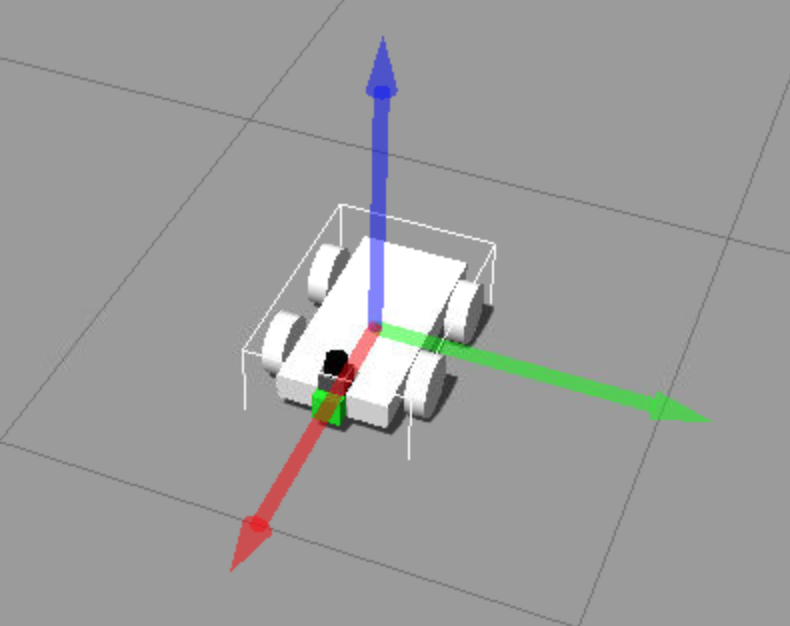
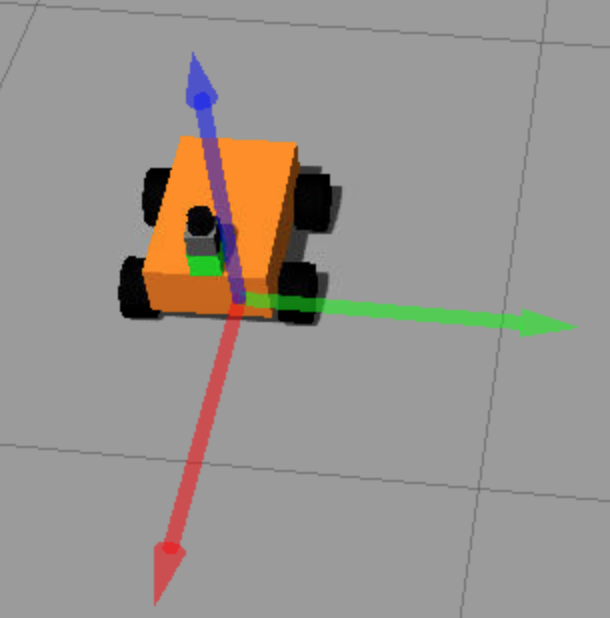
updates

diff --git a/main.tex b/main.tex
@@ -62,10 +62,6 @@ Finally, last dimension involved the number of robots involved: \begin{enumerate
 This project is focused on solving the global localization problem on a static environment, using a passive module, in a single-robot mobile platform. This has been implemented in simulation via ROS \cite{288} packages to illustrate navigation tasks (Fig. \ref{fig:map}).  
 
 
-%\IEEEPARstart{T}{he} introduction should provide some material regarding the history of the problem, why it is important and what is intended to be achieved. If there exists any previous attempts to solve this problem, this is a great place to note these while conveying the differences in your approach (if any). The intent is to provide enough information for the reader to understand why this problem is interesting and setting up the conversation for the solution you have provided
-%Use this space to introduce your robotic inference idea and how you wish to apply it. 
-%If you have any papers / sites you have referenced for your idea, please make sure to cite them.
-
 %example for inserting image
 %\begin{figure}[thpb]
 %      \centering
@@ -156,8 +152,6 @@ Global localization & no & yes\\
 
 
 
-%At this stage, you should begin diving into the technical details of your approach by explaining to the reader how parameters were defined, what type of network was chosen, and the reasons these items were performed. This should be factual and authoritative, meaning you should not use language such as “I think this will work” or “Maybe a network with this architecture is better..”. Instead, focus on items similar to, ”A 3-layer network architecture was chosen with X, Y, and Z parameters” 
-%Explain why you chose the network you did for the supplied data set and then why you chose the network used for your robotic inference project. \cite{lamport1994latex}
 %
 %%example for Bullet point list
 %
@@ -207,7 +201,7 @@ The baseline mobile robot, Udacity Bot (UB), is developed using Xacro\footnote{\
 
 \subsection{Custom Robot Model}
 
-The custom mobile robot, named Saminda Bot (SB), is a four-wheeled robot. The chassis is a box 0.4, 0.2, 0.05, while the wheels are cylinders with radius 0.055 and length 0.0375. Similar to Sec. \ref{subsec:udacity_bot}, the robot is equipped with a Hokuyo laser scanner and a camera. A Skid Steering Drive has been attached to front/back left/right wheels and configured via Gazebo. Fig. \ref{fig:saminda_bot} shows the structure of Saminda Bot, and the visual appearance is given in Fig.  \ref{fig:sb}.
+The custom mobile robot, named Saminda Bot (SB), is a four-wheeled robot. The chassis is a box 0.2, 0.3, 0.1, while the wheels are cylinders with radius 0.05 and length 0.05. Similar to Sec. \ref{subsec:udacity_bot}, the robot is equipped with a Hokuyo laser scanner and a camera. The moment of inertia for each object shape has been calculated explicitly. A Skid Steering Drive has been attached to front/back left/right wheels and configured via Gazebo. Fig. \ref{fig:saminda_bot} shows the structure of Saminda Bot, and the visual appearance is given in Fig.  \ref{fig:sb}.
 
 \begin{figure}[thpb]
       \centering
@@ -225,25 +219,96 @@ The custom mobile robot, named Saminda Bot (SB), is a four-wheeled robot. The ch
 
 \subsection{ROS Packages}
 
-TODO
+The robots uses amcl package and ROS navigation stack to localize, plan a path, and move to the target pose.  In order to obtain successful robot behaviors, the parameters for the amcl, global planner, local planner, global costmap, and local costmap have been changed (Fig. \ref{fig:nav_stack}).   Both robots have used the same set of parameters to configure amcl (Table. \ref{tab:amcl_loc}).  The navigation stack parameters have been configured to match the characteristics of each robot. This has been the most time consuming part of the project, and the ROS tool \textit{rqt\_reconfigure} has been used extensively to view all parameters and configure them in real-time without restarting the simulation. The parameters for local planner and costmap common is given in Table \ref{tab:planner}. The global and local costmap parameters have not been changed.
 
-%\section{Data Acquisition}
-%This section should discuss the data set. Items to include are the number of images, size of the images, the types of images (RGB, Grayscale, etc.), how these images were collected (including the method). Providing this information is critical if anyone would like to replicate your results. After all, the intent of reports such as these are to convey information and build upon ideas so you want to ensure others can validate your process.
-%Justifying why you gathered data in this way is a helpful point, but sometimes this may be omitted here if the problem has been stated clearly in the introduction.
-%It is a great idea here to have at least one or two images showing what your data looks like for the reader to visualize.
+\begin{table}[h]
+\caption{AMCL parameters for both the UB and SB robots.}
+\label{tab:amcl_loc}
+\begin{center}
+\begin{tabular}{|l|l|}
+\hline
+kld\_err & 0.05\\
+kld\_z & 0.99\\
+laser\_lambda\_short & 0.1 \\
+laser\_likelihood\_max\_dist & 2.0\\
+laser\_max\_beams & 60 \\
+laser\_model\_type &  likelihood\_field\\
+laser\_sigma\_hit & 0.2\\
+laser\_z\_hit & 0.95\\
+laser\_z\_short & 0.1 \\
+laser\_z\_max & 0.05 \\
+laser\_z\_rand & 0.5\\
+max\_particles & 200\\
+min\_particles & 20\\
+odom\_alpha1 & 0.05\\
+odom\_alpha2& 0.05\\
+odom\_alpha3& 0.05\\
+odom\_alpha4& 0.05\\
+odom\_alpha5& 0.1\\
+update\_min\_a & 0.1\\
+update\_min\_d & 0.1 \\
+initial\_pose\_x & 0\\
+initial\_pose\_y & 0\\
+initial\_pose\_a & 0\\
+\hline
+\end{tabular}
+\end{center}
+\end{table}
+
+\begin{table}[h]
+\caption{Navigation stack parameters for the UB and SB robots.}
+\label{tab:planner}
+\begin{center}
+\begin{tabular}{|l||l|l|}
+\hline
+Local Planner Parameters & UB & SB\\
+\hline
+yaw\_goal\_tolerance &  0.05& 0.05\\
+xy\_goal\_tolerance &  0.1& 0.1\\
+pdist\_scale &  0.5& 0.5\\
+gdist\_scale &  1.0& 1.0\\
+max\_vel\_x &  0.5& 0.5\\
+min\_vel\_x &  0.1& 0.1\\
+max\_vel\_theta & 2.0 & 0.45\\
+min\_vel\_theta &  -2.0& -0.45\\
+acc\_lim\_theta &  5.0& 0.45\\
+acc\_lim\_x & 2.0 & 0.25\\
+acc\_lim\_y &  2.0& 0.25\\
+min\_in\_place\_vel\_theta & 0.4 & 0.45\\
+controller\_frequency &  10& 10\\
+\hline
+Costmap Common Parameters && \\
+\hline
+obstacle\_range  & 5.0 & 4.0 \\
+raytrace\_range & 8.0 & 6.0\\
+transform\_tolerance & 0.2 & 0.2\\
+robot\_radius &  0.25& -\\
+footprint &  - & [-0.2,-0.2],[-0.2,0.2],\\  
+ &  &  [0.2, 0.2], [0.2,-0.2]\\
+inflation\_radius & 0.3 & 0.2\\  
+  &  & \\              
+\hline
+\end{tabular}
+\end{center}
+\end{table}
+
+
 
 \section{Results}
-This is typically the hardest part of the report for many. You want to convey your results in an unbiased fashion. If you results are good, you can objectively note this. Similarly, you may do this if they are bad as well. You do not want to justify your results here with discussion; this is a topic for the next session. 
-Present the results of your robotics project model and the model you used for the supplied data with the appropriate accuracy and inference time
-For demonstrating your results, it is incredibly useful to have some charts, tables, and/or graphs for the reader to review. This makes ingesting the information quicker and easier.
+
+Both UB and SB robots have been localized and reach the benchmark target location. The two robots have different  physical characteristics, and the navigation stack has been configured such that both robots complete the navigation task. The UB robot is more responsive and reach the target pose with XX minutes. The SB robot has been configured to move conservatively than UB robot (Table \ref{tab:planner}). It has been observed that with the skid drive, when the robots turns faster, the amcl  injects particles into free space, and we have control this behavior with slower motion.     
+
+%This is typically the hardest part of the report for many. You want to convey your results in an unbiased fashion. If you results are good, you can objectively note this. Similarly, you may do this if they are bad as well. You do not want to justify your results here with discussion; this is a topic for the next session. 
+%Present the results of your robotics project model and the model you used for the supplied data with the appropriate accuracy and inference time
+%For demonstrating your results, it is incredibly useful to have some charts, tables, and/or graphs for the reader to review. This makes ingesting the information quicker and easier.
 
 \section{Discussion}
-This is the only section of the report where you may include your opinion. However, make sure your opinion is based on facts. If your results are poor, make mention of what may be the underlying issues. If the results are good, why do you think this is the case? Again, avoid writing in the first person (i.e. Do not use words like “I” or “me”). If you really find yourself struggling to avoid the word “I” or “me”; sometimes, this can be avoid with the use of the word “one”. As an example: instead of : “I think the accuracy on my dataset is low because the images are too small to show the necessary detail” try: “one may believe the accuracy on the dataset is low because the images are too small to show the necessary detail”. They say the same thing, but the second avoids the first person. 
-Reflect on which is more important, inference time or accuracy, in regards to your robotic inference project.
+%This is the only section of the report where you may include your opinion. However, make sure your opinion is based on facts. If your results are poor, make mention of what may be the underlying issues. If the results are good, why do you think this is the case? Again, avoid writing in the first person (i.e. Do not use words like “I” or “me”). If you really find yourself struggling to avoid the word “I” or “me”; sometimes, this can be avoid with the use of the word “one”. As an example: instead of : “I think the accuracy on my dataset is low because the images are too small to show the necessary detail” try: “one may believe the accuracy on the dataset is low because the images are too small to show the necessary detail”. They say the same thing, but the second avoids the first person. 
+%Reflect on which is more important, inference time or accuracy, in regards to your robotic inference project.
 
 \section{Conclusion / Future work}
-This section is intended to summarize your report. Your summary should include a recap of the results, did this project achieve what you attempted, and is this a commercially viable product? 
-For Future work,address areas of work that you may not have addressed in your report as possible next steps. For future work, this could be due to time constraints, lack of currently developed methods / technology, and areas of application outside of your current implementation. Again, avoid the use of the first-person.
+%This section is intended to summarize your report. Your summary should include a recap of the results, did this project achieve what you attempted, and is this a commercially viable product? 
+%For Future work,address areas of work that you may not have addressed in your report as possible next steps. For future work, this could be due to time constraints, lack of currently developed methods / technology, and areas of application outside of your current implementation. Again, avoid the use of the first-person.
 
 \bibliography{bib}
 \bibliographystyle{ieeetr}
